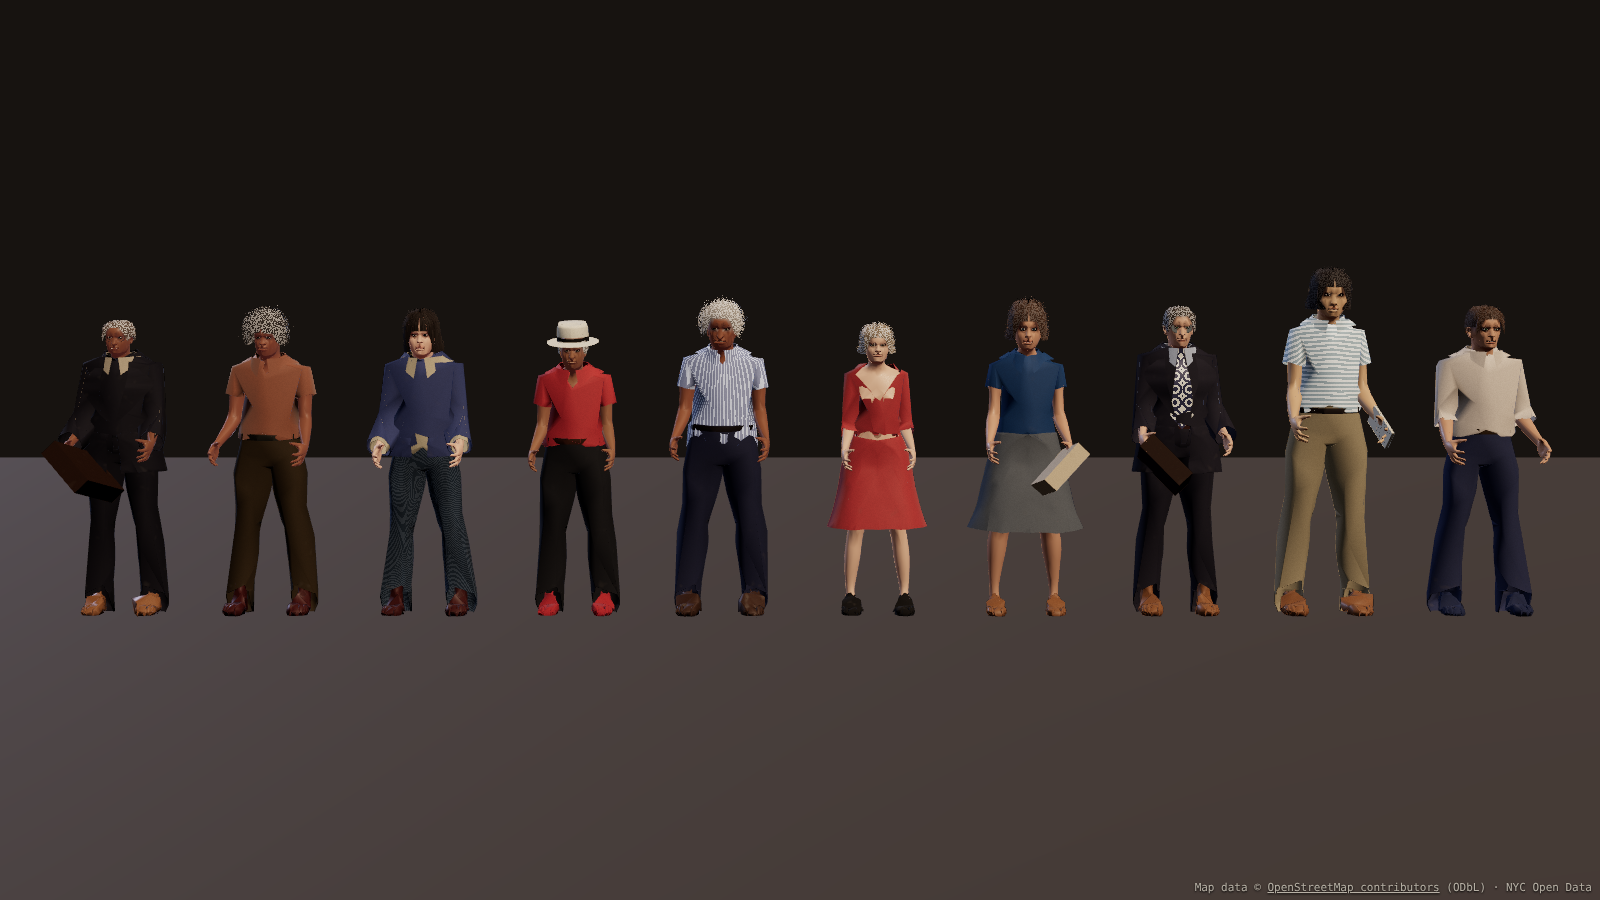
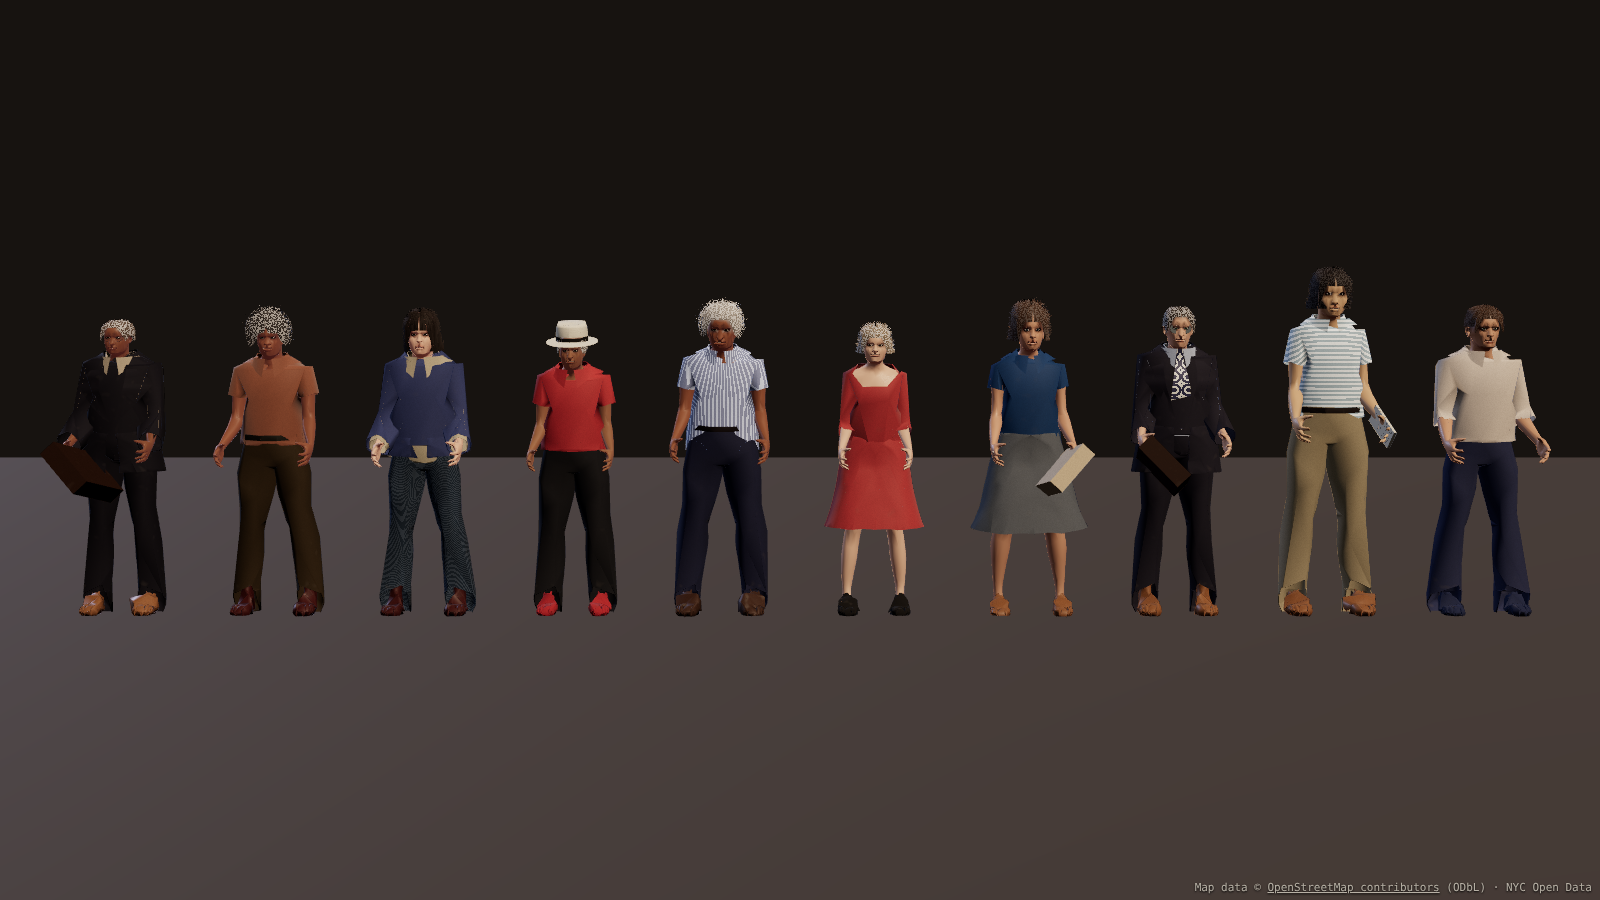
Characters: drape only moves cloth outwards (no skin showing through); lineup A recaptured
Claude-Session: https://claude.ai/code/session_01H4ZSJ9HHC3JhC3uZj5pVfG

diff --git a/src/characters/build/garments.ts b/src/characters/build/garments.ts
@@ -113,9 +113,18 @@ export function garmentPieces(ctx: GarmentCtx): { pieces: PieceSpec[]; trims: ((
   };
   // Drape: shirts and jackets hang off the shoulders and chest instead of printing every muscle.
   // Their base surface is a Taubin-smoothed copy of the torso (close LODs only; arms stay exact so cuffs cut cleanly).
-  const drape = ctx.lod <= 2
-    ? taubin(P, F.tris('body', Math.min(4, ctx.lod + 2)), (k) => F.part[k] === PART.torso || F.part[k] === PART.neck, 12, (k) => F.part[k] === PART.neck)
-    : undefined;
+  // Smoothing may only move cloth outwards (bridge hollows); convex shapes stay, so the shell
+  // never sinks inside the body and skin can't show through.
+  const drape = ctx.lod <= 2 ? (() => {
+    const sm = taubin(P, F.tris('body', Math.min(4, ctx.lod + 2)), (k) => F.part[k] === PART.torso || F.part[k] === PART.neck, 12, (k) => F.part[k] === PART.neck);
+    const Nb = F.normals.get('body')!;
+    for (const [k, q] of sm) {
+      const d = (q[0] - P[k * 3]) * Nb[k * 3] + (q[1] - P[k * 3 + 1]) * Nb[k * 3 + 1] + (q[2] - P[k * 3 + 2]) * Nb[k * 3 + 2];
+      const out = Math.max(0, d);
+      sm.set(k, [P[k * 3] + Nb[k * 3] * out, P[k * 3 + 1] + Nb[k * 3 + 1] * out, P[k * 3 + 2] + Nb[k * 3 + 2] * out]);
+    }
+    return sm;
+  })() : undefined;
 
   // ---- top ---------------------------------------------------------------------------------------
   const t = outfit.top;
